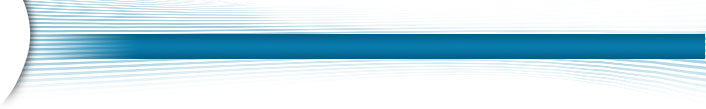
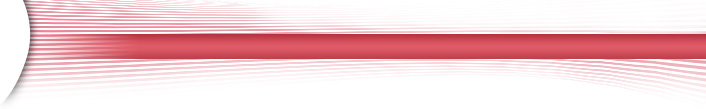
Theme color changed from blue to red.

diff --git a/sites/all/themes/hongzhen/css/pages.css b/sites/all/themes/hongzhen/css/pages.css
@@ -7,7 +7,7 @@
  * ul.links, .pager, .more-link, etc.
  */
  h1,h2,h3 {
-   color:#396EA2;
+   color:#c6434f;
  }
 
 /*
@@ -219,7 +219,7 @@ div#site-name /* The name of the website */ {
 }
 .view-frontpage  {
   height: 380px;
-  background: url(../images/main.jpg);
+  /*background: url(../images/main.jpg);*/
 }
 .region-highlighted {
 }
@@ -229,7 +229,7 @@ div#site-name /* The name of the website */ {
   border-bottom: 1px dashed #ccc;
 }
 .breadcrumb a {
-  color: #396EA2;
+  color: #c6434f;
   text-decoration: none;
 }
 .breadcrumb a:hover {

diff --git a/sites/all/themes/hongzhen/css/blocks.css b/sites/all/themes/hongzhen/css/blocks.css
@@ -287,7 +287,7 @@ h2.block-title /* Block title */ {
   text-decoration: none;
 }
 .menu-block-2 ul li a:hover {
-  color: #85bed7;
+  color: #df5a67;
 }
 .menu-block-2 ul li div.menu-block-2-a {
   float: left;
@@ -301,7 +301,7 @@ h2.block-title /* Block title */ {
   width:8px;
 }
 .menu-block-2 ul li.active a {
-  color: #85bed7;
+  color: #df5a67;
 }
 .menu-block-2 ul li.active a{
   background: url(../images/menu_block_2_li_bg.jpg) repeat-x;

diff --git a/sites/all/themes/hongzhen/templates/views-view--frontpage.tpl.php b/sites/all/themes/hongzhen/templates/views-view--frontpage.tpl.php
@@ -48,13 +48,11 @@
       <?php print $exposed; ?>
     </div>
   <?php endif; ?>
-<!--
   <object classid="clsid:D27CDB6E-AE6D-11cf-96B8-444553540000" codebase="http://download.macromedia.com/pub/shockwave/cabs/flash/swflash.cab#version=7,0,19,0" width="626" height="454">
     <param name="movie" value="sites/all/themes/hongzhen/images/home.swf" />
     <param name="quality" value="high" />
     <embed src="sites/all/themes/hongzhen/images/home.swf" quality="high" pluginspage="http://www.macromedia.com/go/getflashplayer" type="application/x-shockwave-flash" width="626" height="454"></embed>
   </object>
--->
   <?php if ($attachment_before): ?>
     <div class="attachment attachment-before">
       <?php print $attachment_before; ?>
